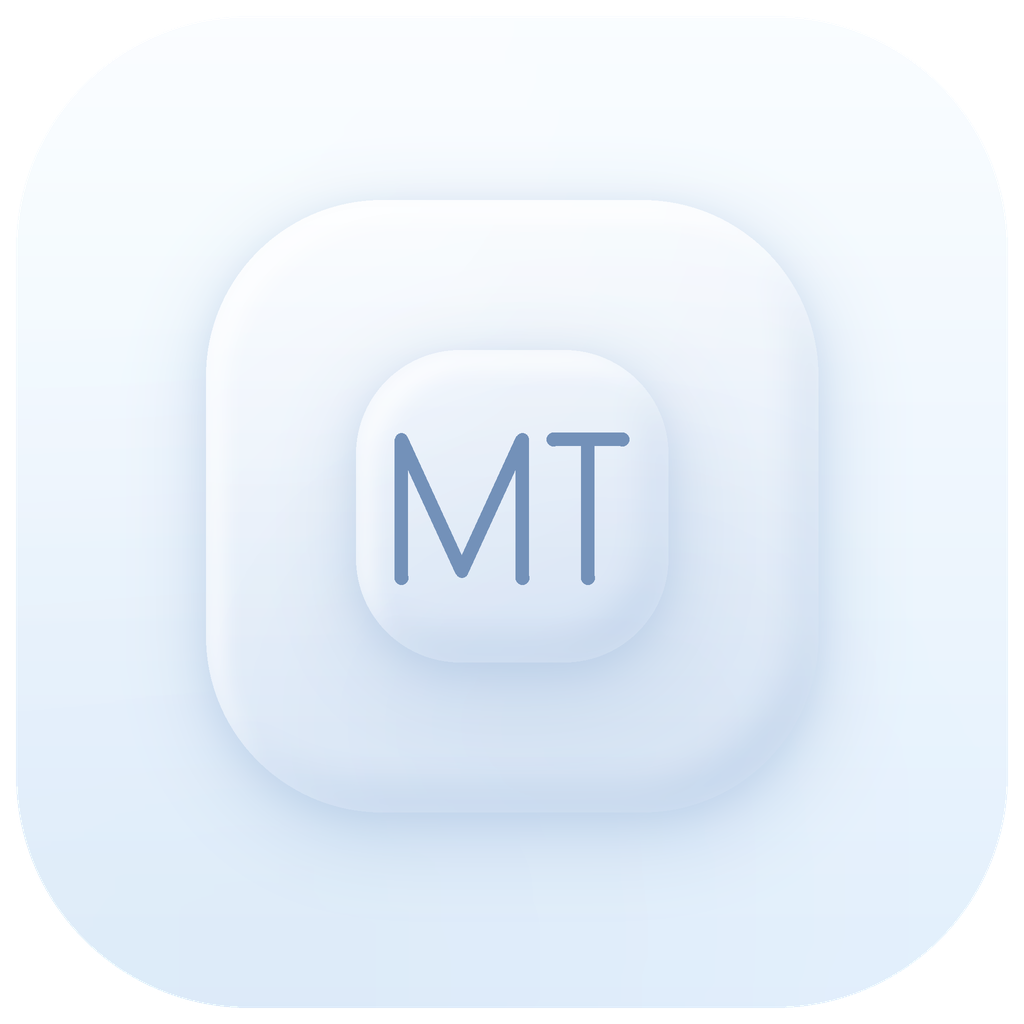
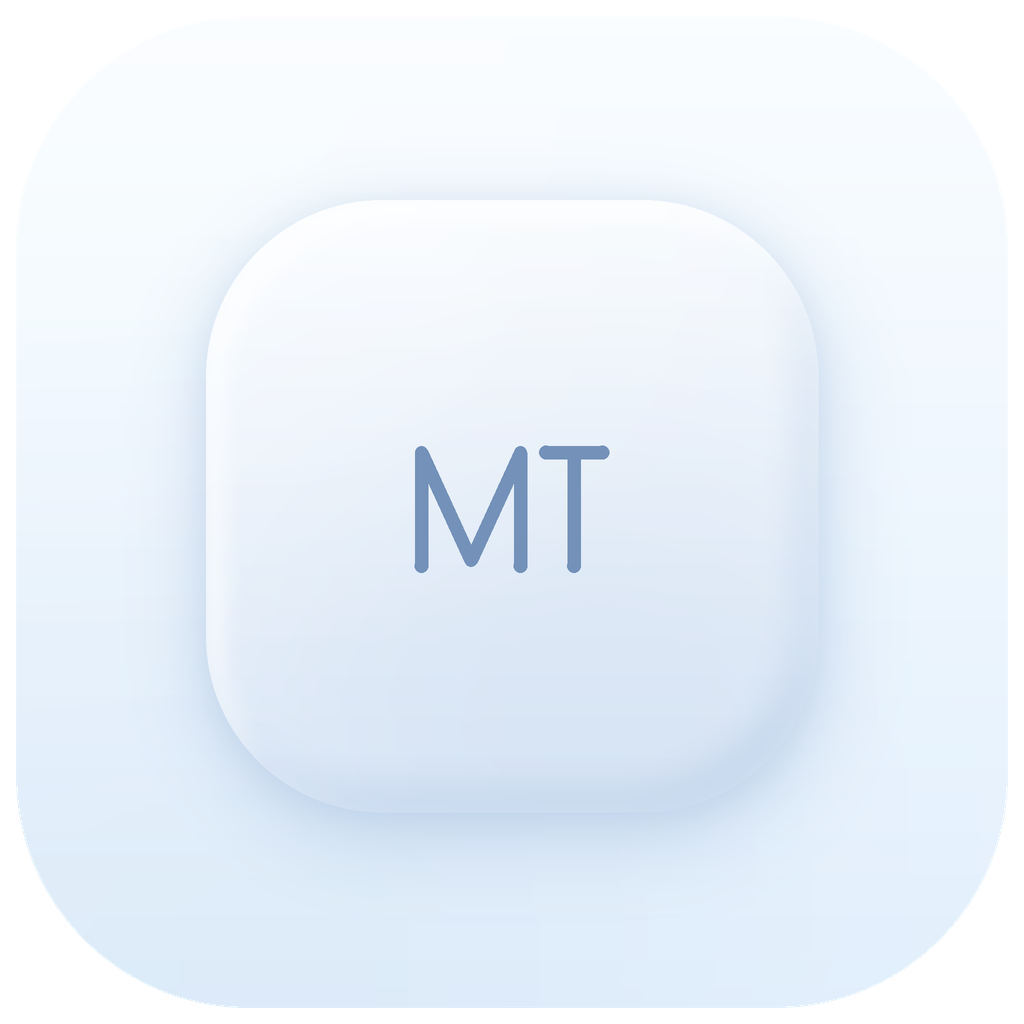
chore: 图标去掉最内层的小方块，MT 保持不变
按截图要求去掉 MT 底下垫着的那块小面板，只留外层面板 + 字标。字标大小、
描边、位置都没动；自适应图标的前景层同步重生成。

Changed region(s): [[0.375, 0.4062, 0.625, 0.5938], [0.4688, 0.625, 0.5312, 0.6562]]

diff --git a/tool/generate_launcher_icon.py b/tool/generate_launcher_icon.py
@@ -1,7 +1,7 @@
 #!/usr/bin/env python3
 """生成浅色拟态（Neumorphism）风格的 MT 论坛启动图标。
 
-构图：柔光底 + 层层内嵌的圆角方块 + 最内层单线描边 MT 字标。
+构图：柔光底 + 一块内嵌的圆角面板 + 单线描边 MT 字标。
 所有尺寸由同一张 1024px 母版缩放，并输出自适应图标的前景 / 背景图层。
 """
 from pathlib import Path
@@ -23,12 +23,11 @@ LINE = (115, 145, 185)
 OUTER_INSET = 16          # 1024 坐标系下的边距
 OUTER_RADIUS = 232
 
-# 从大到小嵌套的圆角方块：外层面板 → 中间面板 → 最内小方块。
+# 只有一块外层面板；MT 直接落在它上面，不再垫第二层小方块（2026-11 按用户要求去掉）。
 PLATES = [
     ((206, 200, 818, 812), 176),
-    ((356, 350, 668, 662), 104),
 ]
-LETTER_SCALE = 0.45   # 字标相对原始字形的缩放（保证落在最内方块中）
+LETTER_SCALE = 0.45   # 字标相对原始字形的缩放（保持原来的大小，只是不再缩小方块）
 LETTER_STROKE = 13.5
 
 M_PATH = [(311, 632), (311, 380), (421, 620), (531, 380), (531, 632)]
